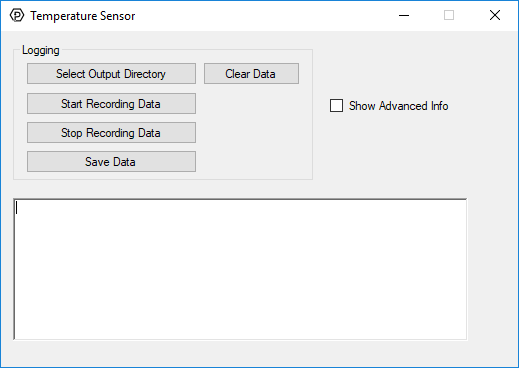
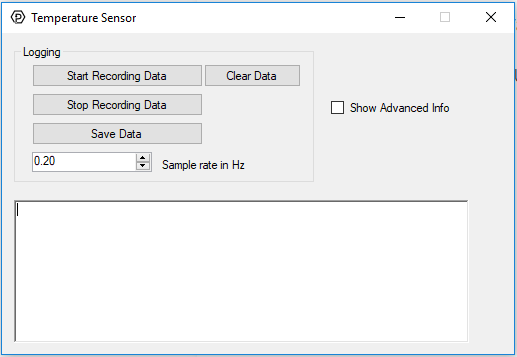
Driver download instruction updates
Updated driver download instructions for updated Phidget's site and other minor changes to the ReadMe page.

Changed region(s): [[0.0, 0.0, 1.0, 1.0], [0.619, 0.2773, 0.8665, 0.3389]]

diff --git a/README.md b/README.md
@@ -10,14 +10,14 @@ The application is meant to be very simple so that freshman can record data temp
 This application is a modification of the example program that you can download from phidget.
 
 ## Installation
-* Download the Phidget drivers from the phidget website [www.phidgets.com](https://www.phidgets.com/docs/OS_-_Windows#Getting_started_with_Windows). In the Quick Downloads section, you need to download and install the 64-bit Installer Download.   
+* Download the Phidget drivers from the phidget website [www.phidgets.com](https://www.phidgets.com/docs/OS_-_Windows#Getting_started_with_Windows). In the Install section, you need to download and install the 64-bit Installer Download.   
   
 ![UI](https://github.com/garland3/DAQ-logging-UI-for-phidget-temperature/blob/master/phidgetDriverDownload.png)  
   
 * In the NSIS folder of this repository, [NSIS](./NSIS), find the newest version of the DAQ software and download it. 
 * Chrome might block download this software since it is not used often. But you can override this block.
 * Run the installer. 
-* You might get a nasty security warning from windows when you install it. If you don't think it is safe, then search through the source code here on github until you are satisfied. Again, you can override this security block and run the installer anyway. 
+* You might get a nasty security warning from windows when you install it. Again, you can override this security block and run the installer anyway. If you don't think it is safe, then search through the source code here on github until you are satisfied.
 
 ## How to use
 
@@ -28,8 +28,8 @@ This application is a modification of the example program that you can download 
 * Click 'Save Data' to save the data to a csv file. 
     * The csv file has three columns (Timestamp, delta T (delta Time) and temperature). 
     * The delta T is the difference in time from when you clicked "Start Recording" until the measurements was made. The units are seconds. 
-    * If you view the csv file in Microsft Excel, then the Timestamp will not show correct. If you open the .csv file in a text editor (like notepad), then youc an see the whole time stamp information. 
-    * The update interval is 500 ms by default. Depending on your computer, a slightly delay may cause the update-interval to be slightly larger. You can see this when you compare the time-stamps. 
+    * If you view the csv file in Microsft Excel, then the Timestamp will not show correct. If you open the .csv file in a text editor (like notepad), then you can see the whole time stamp information. 
+    * The update interval is 0.20 Hz (5 s) by default. Depending on your computer, a slightly delay may cause the update-interval to be slightly larger. You can see this when you compare the time-stamps. 
 * Click 'Clear Data' to clear any recorded data. 
 ## Development
 This app was developed with 
